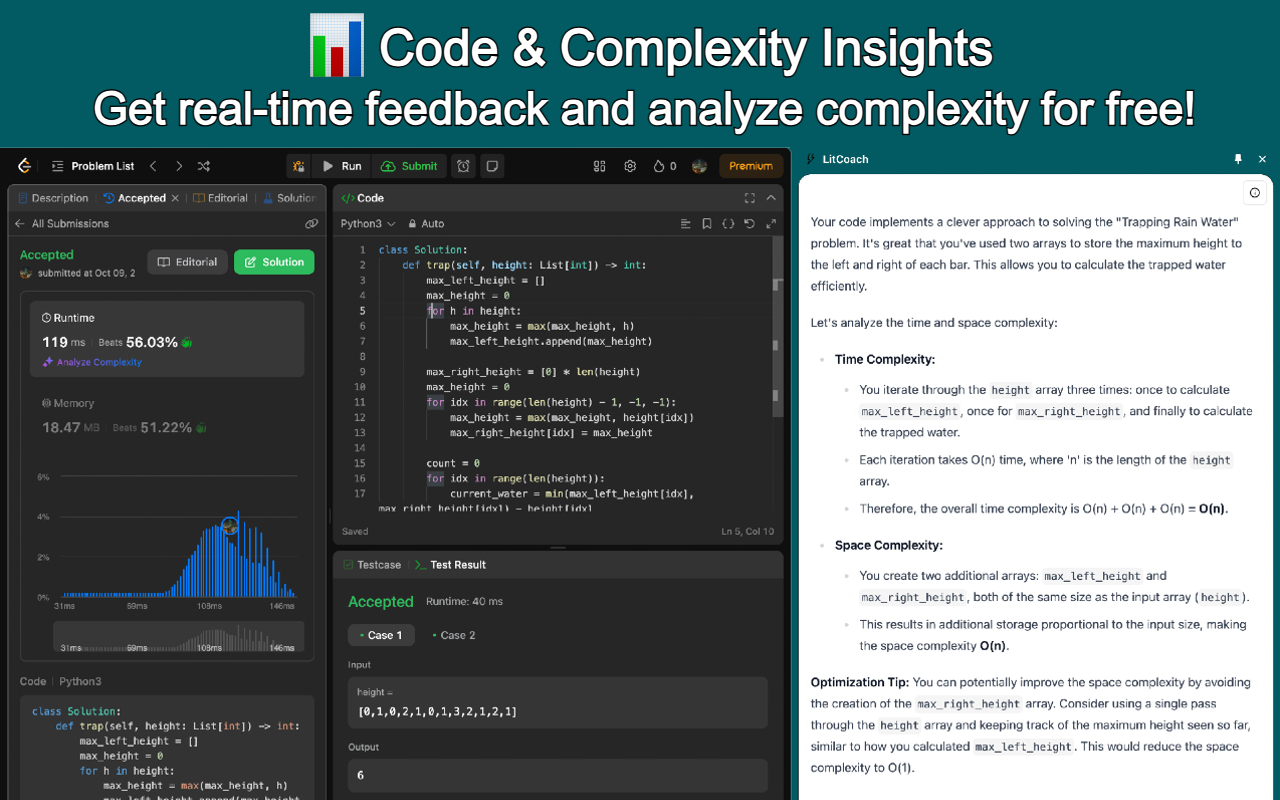
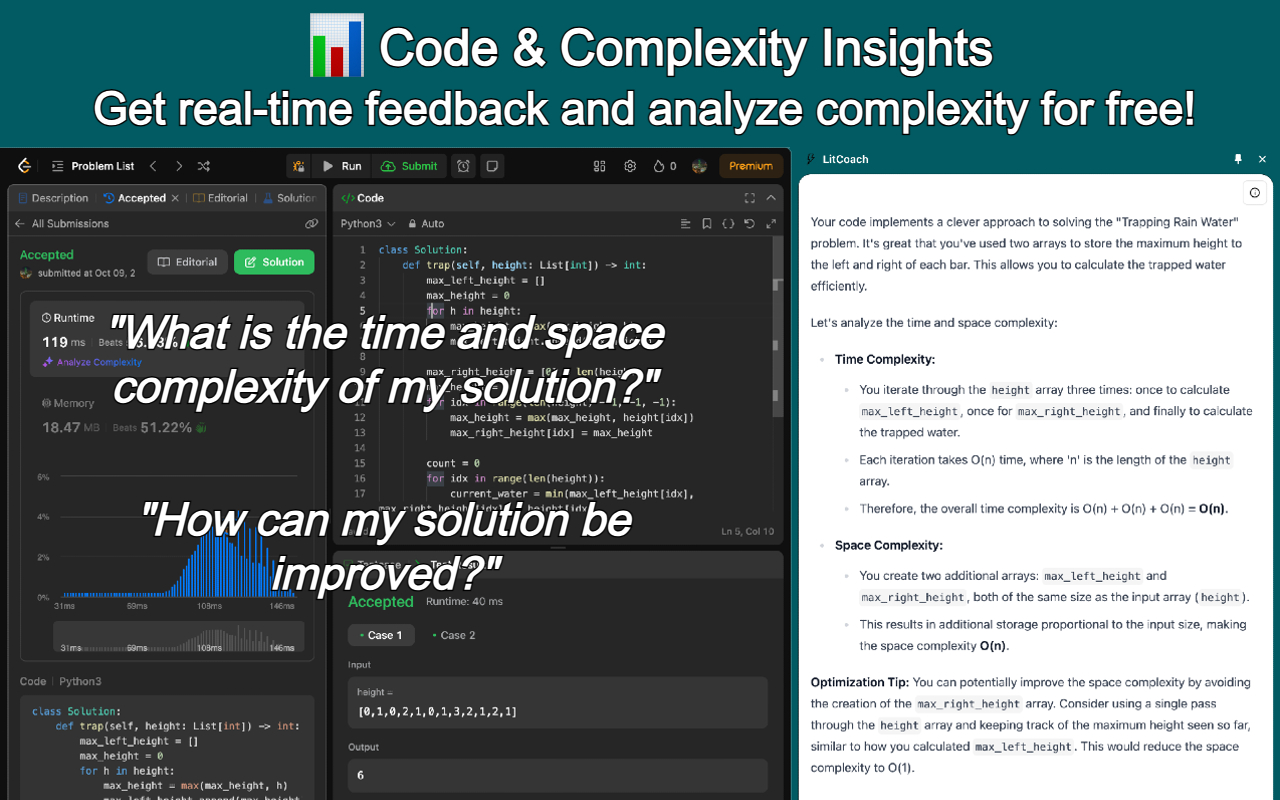
update images

Changed region(s): [[0.0938, 0.375, 0.5312, 0.5312], [0.0938, 0.625, 0.5, 0.75]]

diff --git a/README.md b/README.md
@@ -1,12 +1,9 @@
 <p align="center">
-  <img src="assets/screenshot-1.jpg" alt="Screenshot 1" width="700"/>
-  <img src="assets/screenshot-2.jpg" alt="Screenshot 2" width="700"/>
-  <img src="assets/screenshot-3.jpg" alt="Screenshot 3" width="700"/>
+    <img src="assets/small-promo-tile.png" alt="LitCoach" width="600"/>
+
 </p>
 
 [![Chrome Web Store](https://img.shields.io/badge/Available_on-Chrome_Web_Store-cce7e8?style=for-the-badge)](https://chromewebstore.google.com/detail/litcoach/pbkbbpmpbidfjbcapgplbdogiljdechf?hl=en&authuser=0)
-
-## LitCoach
 
 Chrome extension that uses Google's Gemini 1.5-Flash AI model to provide real-time feedback and hints for LeetCode problems, reducing problem-solving time and improving user productivity.
 
@@ -54,6 +51,7 @@ Ensure [Node.js](https://nodejs.org/) is installed.
     - Enable **Developer Mode**.
 
 6. **Load the extension**:
+
     - Click **Load unpacked**.
     - Select the `dist` folder.
 
